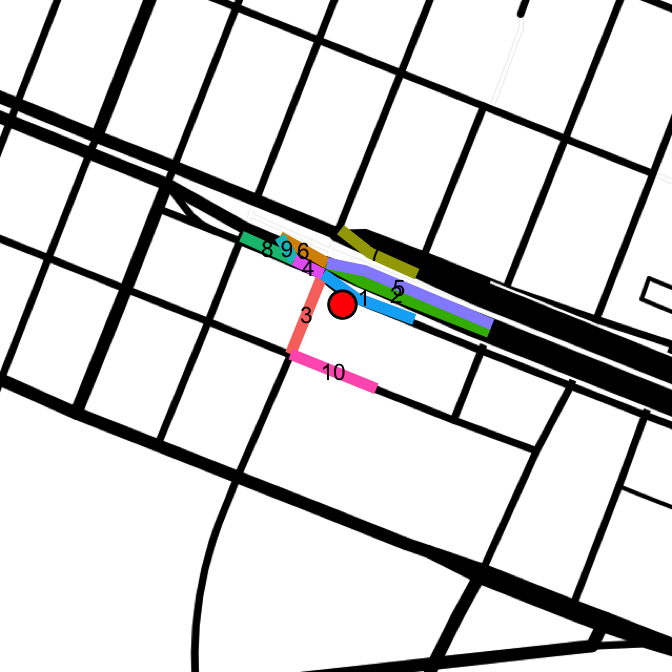
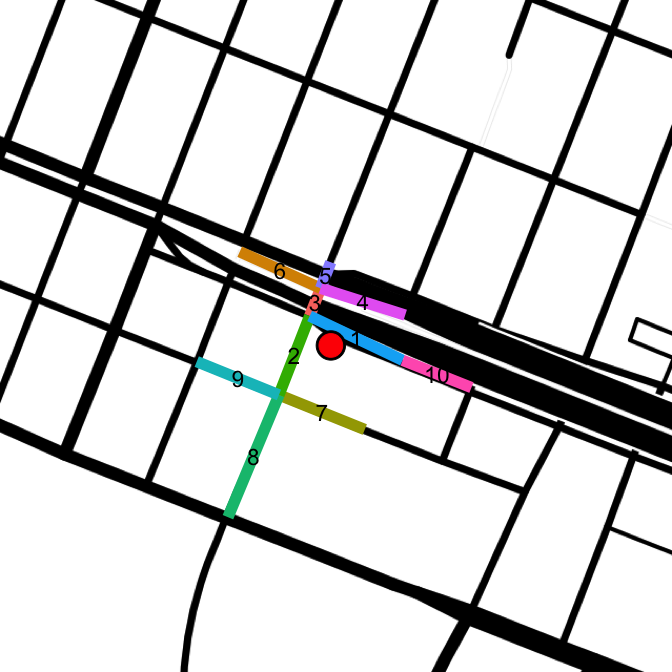
add primary block fallback

diff --git a/rmd/Accuracy/Accuracy.md b/rmd/Accuracy/Accuracy.md
@@ -50,7 +50,7 @@ Tree 165907 is reverse geocoded as 410 Grand, but viewing the full tree data fro
 
 However, the Geonames Find Nearby Streets (FNS) API provids another useful match. It's not the exact address that's needed for any tree, it's just the nearest street. In fact, that API provides not only the nearest street, but also the to/from addresses of the segment. A takeaway from the first analysis is that mixing and matching geocoding services gets messy. In attempt to minimize error, only the Geonames family of APIs will be used.  
 
-For the tree of interest, here is the result from the Geonames Find Nearby Streets call.
+For the point of interest, here is the result from the Geonames Find Nearby Streets call.
 
 
 ```r
@@ -81,46 +81,45 @@ segments[, 1:8]
 ## 10   Grand St    374    383    388    387 S1400 10002    0.104
 ```
 
-This useful result set returns the to and from addresses for both sides of the street, as well as the distance from the street (which is how the results are ordered). This may be useful in validation. A final component, not included in the above table, is the coordinate line of each segment. This allows for drawing a multi-segment line on a map, another useful tool in validation. Plotting these street segments results in the following
+This useful result set returns the to and from addresses for both sides of the street, as well as the distance from the street (which is how the results are ordered). This may be useful in validation down the line. A final component, not included in the above table, are the coordinate lines of each segment. This allows for drawing a multi-point segment on a map, another useful tool in validation. Plotting these street segments results in the following
 
 
 ```r
-segments[1, "line"]
-```
-
-```
-## [1] "-73.986721 40.715952,-73.986835 40.715777,-73.986929 40.715603,-73.986996 40.715456,-73.987074 40.715241,-73.987129 40.715031,-73.987138 40.714974"
-```
-
-```r
-segments$id <- seq_along(segments$street)
-lines.list <- strsplit(segments$line, ",")
-lines <- data.frame()
-for (segment in 1:length(lines.list)){
-  lines <- rbind(lines, cbind(segment, lines.list[[segment]]))
+drawLines <- function(lat, lon){
+  fns.parms <- paste0("lat=", lat, "&lng=", lon)
+  seg <- fromJSON(file = paste0(fns.url, fns.parms))
+  seg <- sapply(seg$streetSegment, function(i) c(i$name, i$fraddl, i$fraddr, i$toaddl, i$toaddr, 
+                                                i$mtfcc, i$zip, i$postalcode, i$distance, i$line))
+  segments <- seg %>% t %>% as.data.frame(stringsAsFactors = FALSE) %>% 
+              setNames(c("street",	"fraddl", "fraddr",	"toaddl", "toaddr",	 "mtfcc",	"zip", 
+                         "distance", "line"))
+  segments$id <- seq_along(segments$street)
+  lines.list <- strsplit(segments$line, ",")
+  lines <- data.frame()
+  for (segment in 1:length(lines.list)){
+    lines <- rbind(lines, cbind(segment, lines.list[[segment]]))
+  }
+  lines$V2 <- as.character(lines$V2)
+  lines <- lines %>% separate(V2, c("lon", "lat"), " ") %>% 
+            mutate(lon = as.numeric(lon), lat = as.numeric(lat))
+  # relevel to separate similar color lines
+  lines$segment <- factor(lines$segment, levels(lines$segment)[c(3, 6, 7, 2, 8, 9, 1, 5, 4, 10)])
+  means <- lines %>% group_by(segment) %>% summarize(lat = mean(lat), lon = mean(lon))
+  map <- get_map(location = paste0(lat, ",", lon), zoom = 17, maptype = "toner-lines")
+  ggmap(map) + 
+     geom_line(data = lines, aes(x = lon, y = lat, color = segment), size = 4) +
+     theme_nothing() +
+     geom_point(data = data.frame(lon = lon, lat = lat), aes(x = lon, y = lat), 
+                size = 10) +
+     geom_point(data = data.frame(lon = lon, lat = lat), aes(x = lon, y = lat), 
+                size = 8, color = "red") +
+     geom_text(data = means, aes(x = lon, y = lat, label = segment), size = 6)
 }
-lines$V2 <- as.character(lines$V2)
-lines <- separate(lines, V2, c("lon", "lat"), " ")
-lines$lon <- as.numeric(lines$lon)
-lines$lat <- as.numeric(lines$lat)
+
+drawLines(block.35[order(block.35$lat), ][1, "lat"], block.35[order(block.35$lat), ][1, "lon"])
 ```
 
-
-```r
-# relevel to separate similar color lines
-lines$segment <- factor(lines$segment, levels(lines$segment)[c(3, 6, 7, 2, 8, 9, 1, 5, 4, 10)])
-means <- lines %>% group_by(segment) %>% summarize(lat = mean(lat), lon = mean(lon))
-ggmap(map.sewardPark) + 
-   geom_line(data = lines, aes(x = lon, y = lat, color = segment), size = 4) +
-   theme_nothing() +
-   geom_point(data = block.35[order(block.35$lat), ][1, ], aes(x = lon, y = lat), 
-              size = 10) +
-   geom_point(data = block.35[order(block.35$lat), ][1, ], aes(x = lon, y = lat), 
-              size = 8, color = "red") +
-   geom_text(data = means, aes(x = lon, y = lat, label = segment), size = 6)
-```
-
-![](Figs/clinton lines-1.png) 
+![](Figs/draw lines-1.png) 
 
 The point of interest is indicated by the red dot, and each returned segment is uniquely colored. The first segment returned is definitely the most correct: Clinton from 166 - 185. Segment 2 is not wanted, and is actually just a sidewalk from Clinton to Essex. Segment 3 is the other segment that completes this block. Segments 4 - 10 are not part of the block. **The task at hand is to create a reproducible process that groups segments 1 and 3 into a block, and eliminates the other results**.  
 
@@ -243,10 +242,14 @@ for (tree in 1:661) { #nrow(treeMap)
     fni.parms2 <- paste0("lat=", segments[segment, "lat2"], 
                          "&lng=", segments[segment, "lon2"])
     int2 <- fromJSON(file = paste0(fni.url, fni.parms2))
-  
+
     if (int1$intersection$distance < 0.001) {
       streets <- c(int1$intersection$street1, int1$intersection$street2)
       street <- streets[streets != primary]
+      if (length(street) > 1) {
+        # street might have different name near one intersection
+        street <- paste(street, collapse = " & ")
+      }
       tmpBlock <- rbind(tmpBlock, 
                         data.frame(segment, street = street,
                                    lat = int1$intersection$lat, lon = int1$intersection$lng, 
@@ -255,6 +258,9 @@ for (tree in 1:661) { #nrow(treeMap)
     if (int2$intersection$distance < 0.001) {
       streets <- c(int2$intersection$street1, int2$intersection$street2)
       street <- streets[streets != primary]
+      if (length(street) > 1) {
+        street <- paste(street, collapse = " & ")
+      }
       tmpBlock <- rbind(tmpBlock, 
                         data.frame(segment, street = street,
                                    lat = int2$intersection$lat, lon = int2$intersection$lng, 
@@ -268,6 +274,7 @@ for (tree in 1:661) { #nrow(treeMap)
        break
      } else if (nrow(tmpBlock) > 2) {
        # error caught in the below null check
+       # usually signifies a block missing some segment
        tmpBlock <- NULL
        break
      }
@@ -299,13 +306,7 @@ Most of the points are successfully mapped to blocks. There are a few errors, su
 
 
 ```r
-wburgBridge <- get_map(location = "40.7169942,-73.9859083", zoom = 17, maptype = "toner-lines")
-ggmap(wburgBridge) +
-  geom_line(data = segment.662, aes(x = lon, y = lat, color = segment), size = 4) +
-  theme_nothing() +
-  geom_point(data = treeMap[662, ], aes(x = lon, y = lat), size = 10) + 
-  geom_point(data =treeMap[662, ], aes(x = lon, y = lat), size = 8, color = "red") +
-  geom_text(data = means, aes(x = lon, y = lat, label = segment), size = 6)
+drawLines(treeMap[662, "lat"], treeMap[662, "lon"])
 ```
 
 ![](Figs/wburg bridge-1.png) 
@@ -320,22 +321,76 @@ length(err)
 ```
 
 ```
-## [1] 33
+## [1] 21
 ```
 
 ```r
 errTable <- table(treeMap[err, "street"])
-errTable
+errTable 
 ```
 
 ```
 ## 
-##  Attorney St     Avenue D       Bowery     Canal St  Chrystie St 
-##            1            3            2            2            1 
-##   Clinton St     E 2nd St     E 4th St     E 5th St E Houston St 
-##            5            1            2           11            3 
-##     Essex St   Stanton St 
-##            1            1
+##  Attorney St     Avenue D     Canal St   Clinton St     E 4th St 
+##            1            3            1            1            2 
+##     E 5th St E Houston St     Essex St 
+##           11            1            1
 ```
 
-Out of the 33 errors recorded, the majority are on E 5th St. Looking at the data, those points lie on a dead-end street which indeed has only a single intersection. How can that be recorded in the data? 
+Out of the 21 errors recorded, the majority are on E 5th St. Looking at the data, those points lie on a dead-end street which indeed has only a single intersection. How can that be recorded in the data? 
+
+
+```r
+drawLines(treeMap[67, "lat"], treeMap[67, "lon"])
+```
+
+![](Figs/5th st-1.png) 
+
+Here is another point that was caught as an error
+
+
+```r
+drawLines(treeMap[462, "lat"], treeMap[462, "lon"])
+```
+
+![](Figs/4th st-1.png) 
+
+The FNS API doesn't return segments to complete the full block between Ave A and B. In both of these cases, the `tmpBlock` dataframe captures the correct end from the primary block. But it also captures both ends of the segment next to it (segment 2 in the above image). This has motivated a fall back option when `tmpBlock` includes more than 2 block ends. In these cases, the primary segment will be used for both block ends, even though one end does not sit on an intersection.  
+
+For the above point, 462, this means the block is mapped to 4th St b/w A and B. For the 5th St dead-end segment (67), it will be recorded as 5th St b/w B and C. Unfortunately, it's impossible to distinguish between an actual dead-end block and one that simply didn't return it's complete segments. The above two cases look the same from the data point of view. It's only with the actual map underlaid that it can be seen 4th does indeed intersect with Avenue A and 5th doesn't interset with Avenue B.  
+
+In the code, an additional block is added to preserve the intersections from the primary segment. If the loop later finds more than 2 block ends, it will default to using the intersections nearest the primary block. 
+
+
+```r
+    if (segment == 1) {
+      primary.int1 <- int1
+      primary.int2 <- int2
+    }
+
+###############################
+
+   if (nrow(tmpBlock) > 2) {
+       tmpBlock <- rbind(data.frame(1, street = getStreet(primary, primary.int1$intersection),
+                                    lat = int1$intersection$lat, lon = int1$intersection$lng, 
+                                    stringsAsFactors = FALSE),
+                         data.frame(1, street = getStreet(primary, primary.int2$intersection),
+                                    lat = int1$intersection$lat, lon = int1$intersection$lng, 
+                                    stringsAsFactors = FALSE))       
+   }
+
+###############################
+
+getStreet <- function(primary, intersection) {
+  streets <- c(intersection$street1, intersection$street2)
+  street <- streets[streets != primary]
+  if (length(street) > 1) {
+   street <- paste(street, collapse = " & ")
+  }  
+  street
+}
+```
+
+
+
+A similar method needs to be implemented to handle the Delancey St error. 
